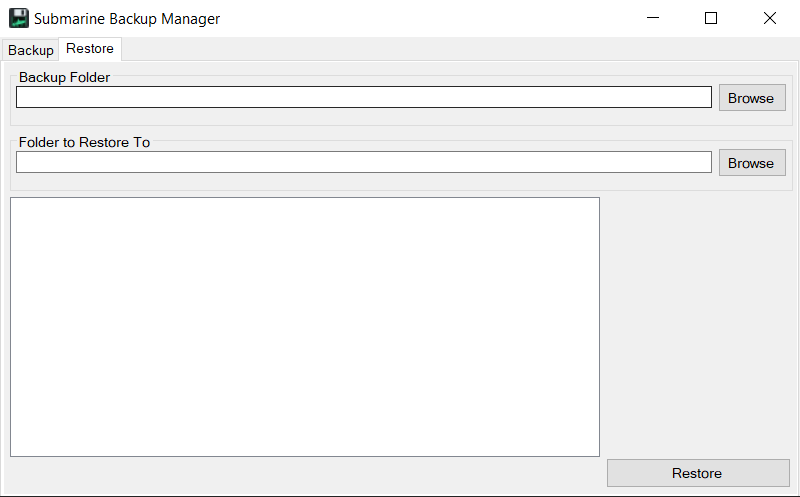
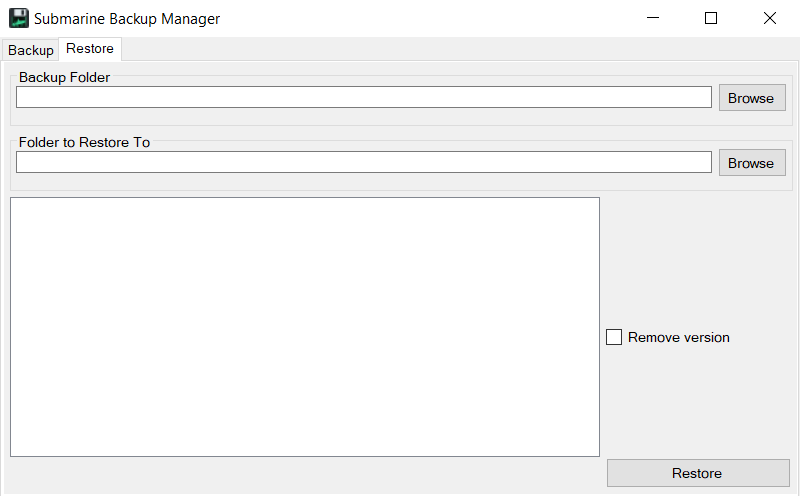
Update README.md and docs/

diff --git a/README.md b/README.md
@@ -30,5 +30,7 @@ Click browse to select a folder here to list all `.sub` files inside it in the b
 Click browse to select a folder to copy the restored subs to. Typically `Submarines/` or a submarine mod in `Mods/`.
 #### Submarine Backup List
 Displays a list of the submarines you can restore.
+#### Remove Version Number
+If checked, will remove the version number from the file name and submarine name of the submarine it restores. Caution: this can overwrite exisitng files!
 #### Restore
 Clicking this button will copy the backup version to the specified folder.
